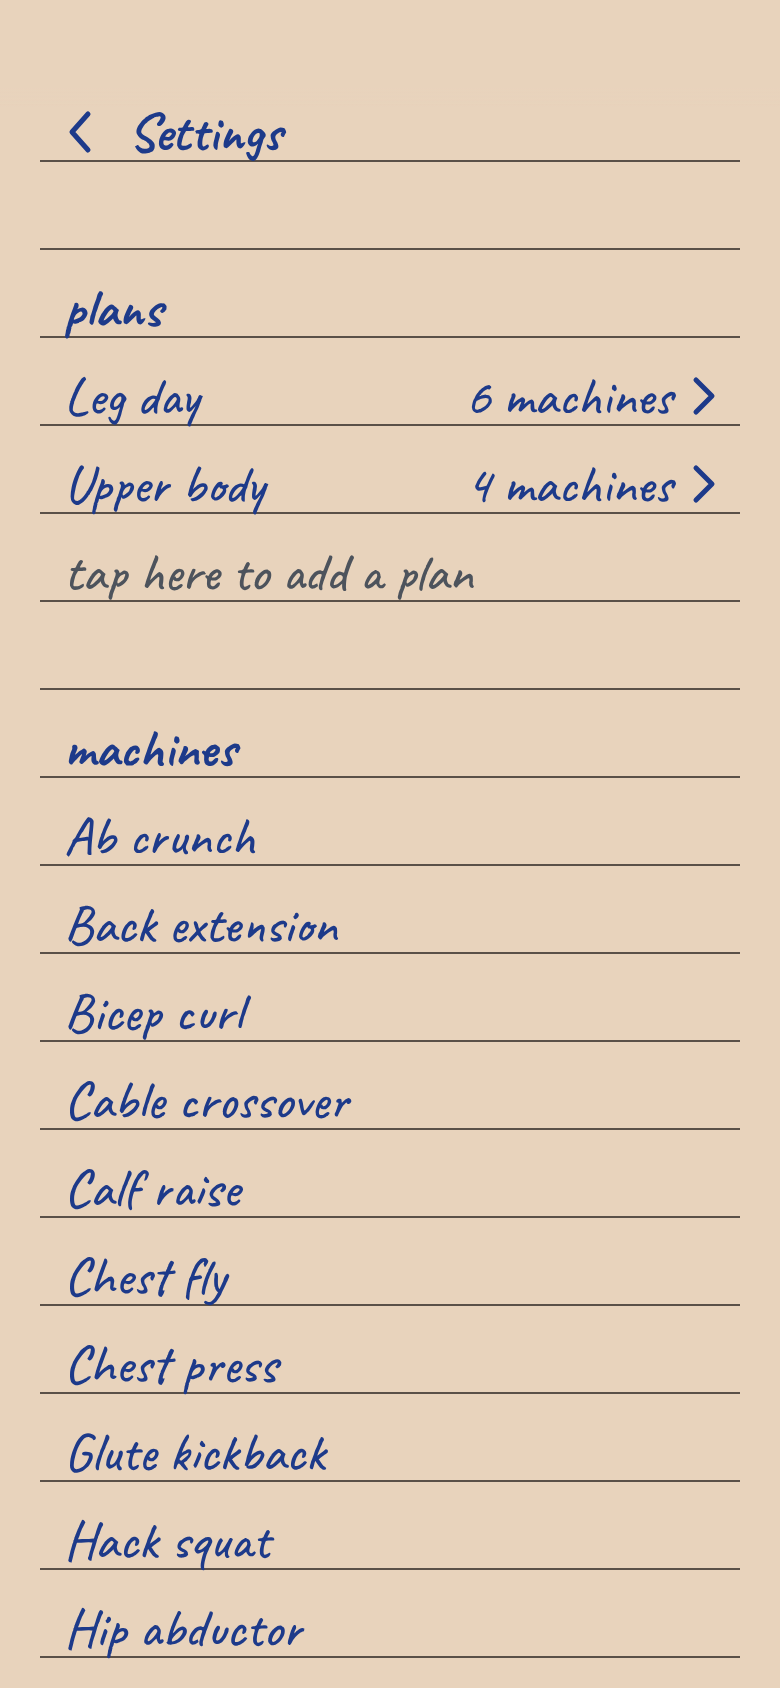
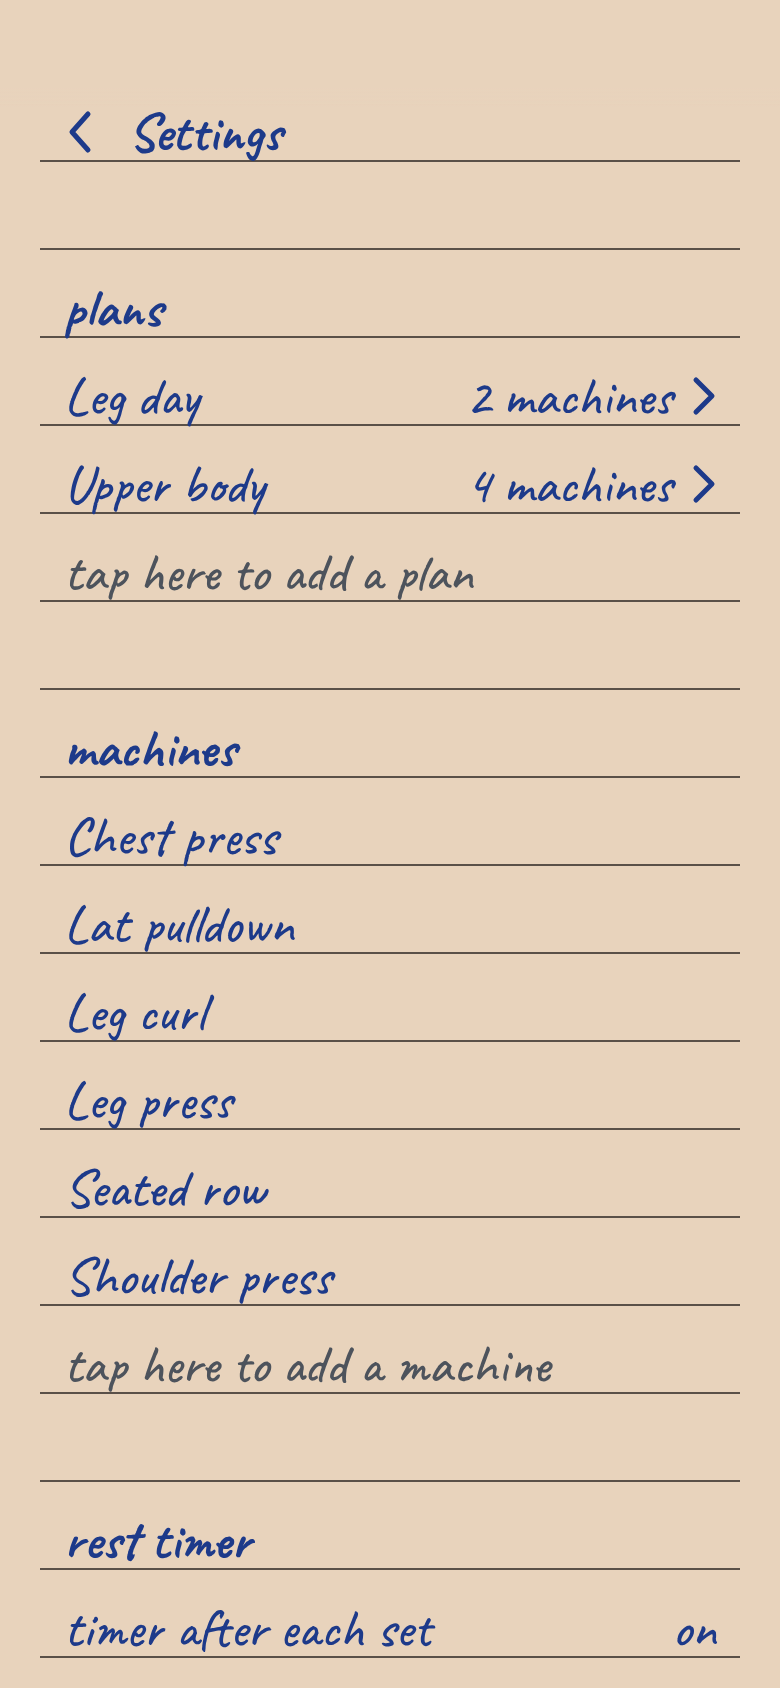
Back to six starter machines; keep the page still between sets
A new notebook starts with the six machines it had before.

In a plan's day the page jumped up and scrolled back after every set,
because the room under the page was reset while the panel was about to
open again. That room now stays while the panel comes straight back.

diff --git a/index.html b/index.html
@@ -1765,20 +1765,16 @@ button {
         .map((line) => (keepDates.has(line.id) ? { ...line, example: undefined } : line));
     }
 
-    /** The machines a new notebook starts with: what most gyms have. */
-    static starterMachines() {
-      const names = [
-        'Ab crunch', 'Back extension', 'Bicep curl', 'Cable crossover', 'Calf raise', 'Chest fly', 'Chest press',
-        'Glute kickback', 'Hack squat', 'Hip abductor', 'Hip adductor', 'Incline press', 'Lat pulldown', 'Lateral raise',
-        'Leg curl', 'Leg extension', 'Leg press', 'Pull-up assist', 'Rear delt fly', 'Seated row', 'Shoulder press',
-        'Smith machine', 'Torso rotation', 'Tricep pushdown',
-      ];
-      return names.map((name) => ({ id: 'm-' + name.toLowerCase().replace(/[^a-z0-9]+/g, '-'), name }));
-    }
-
-    /** The data a new notebook starts with: the starter machines, no plans and five example days. */
+    /** The data a new notebook starts with: six machines, no plans and five example days. */
     static exampleData() {
-      const machines = Notebook.starterMachines();
+      const machines = [
+        { id: 'm-leg-press', name: 'Leg press' },
+        { id: 'm-chest-press', name: 'Chest press' },
+        { id: 'm-lat-pulldown', name: 'Lat pulldown' },
+        { id: 'm-shoulder-press', name: 'Shoulder press' },
+        { id: 'm-seated-row', name: 'Seated row' },
+        { id: 'm-leg-curl', name: 'Leg curl' },
+      ];
       const byName = new Map(machines.map((m) => [m.name, m]));
       const sessions = [
         ['2026-11-07', 'Biking Basics New Zealand #11', [['Leg press', 75, 3, 12], ['Chest press', 32.5, 3, 10], ['Seated row', 37.5, 3, 12]]],
@@ -2696,7 +2692,7 @@ button {
             otherLabel: upNext ? `Next: ${upNext.name}` : 'Done',
             onOther: () => {
               this.shownOn = null;
-              this.page.done();
+              this.page.done({ keepRoom: !!upNext });
               if (upNext) this.page.openLineEditor(upNext);
             },
           }
@@ -2888,7 +2884,7 @@ button {
 
       // In a plan's day the panel comes straight back for the next set.
       const goOn = !!logged && (this.logging || !!this.planLine || Progress.plannedInDay(this.notebook.lines, logged.id).length > 0);
-      this.page.done({ scroll: !editing && !!next && !goOn });
+      this.page.done({ scroll: !editing && !!next && !goOn, keepRoom: goOn });
       if (goOn) this.page.openLineEditor(logged, { logging: true });
     }
   }
@@ -3008,7 +3004,7 @@ button {
       const plan = this.pickedPlan();
       const { planLines } = this.notebook.startDay(date, plan && plan.id);
       // With a plan the day is ready to log: straight on to its first machine.
-      this.page.done({ scroll: !planLines.length });
+      this.page.done({ scroll: !planLines.length, keepRoom: planLines.length > 0 });
       if (planLines.length) this.page.openLineEditor(planLines[0]);
     }
   }
@@ -3052,11 +3048,12 @@ button {
       this.listen();
     }
 
-    render() {
+    /** keepRoom: leave the room under the page as it is, because a panel opens again right away. */
+    render({ keepRoom = false } = {}) {
       const { marks } = Progress.analyzeLines(this.notebook.lines);
       this.linesEl.innerHTML = LineMarkup.page(this.notebook.lines, marks);
       this.showAddLines();
-      this.filler.style.height = '';
+      if (!keepRoom) this.filler.style.height = '';
       this.updateTodayButton();
     }
 
@@ -3082,10 +3079,10 @@ button {
       this.dateEditor.open(line);
     }
 
-    /** An editor calls this when its panel closes. */
-    done({ scroll } = {}) {
+    /** An editor calls this when its panel closes. keepRoom: the next panel opens at once, so the page must not jump. */
+    done({ scroll, keepRoom } = {}) {
       this.busy = false;
-      this.render();
+      this.render({ keepRoom });
       if (scroll) scrollToBottom(true);
     }
 

diff --git a/tests/notebook.test.js b/tests/notebook.test.js
@@ -192,12 +192,9 @@ test('exampleData: five days, every machine line points at a machine, every id i
   assert.equal(new Set(data.lines.map((l) => l.id)).size, data.lines.length);
 });
 
-test('exampleData: a long list of machines with ids of their own, and no plans', () => {
+test('exampleData: six machines and no plans', () => {
   const data = Notebook.exampleData();
-  assert.ok(data.machines.length >= 20);
-  assert.equal(new Set(data.machines.map((m) => m.id)).size, data.machines.length);
-  assert.equal(new Set(data.machines.map((m) => m.name.toLowerCase())).size, data.machines.length);
-  assert.ok(data.machines.some((m) => m.id === 'm-leg-press' && m.name === 'Leg press')); // the ids older notebooks use
+  assert.equal(data.machines.length, 6);
   assert.deepEqual(data.plans, []);
 });
 

diff --git a/design/README.md b/design/README.md
@@ -2,7 +2,7 @@
 
 Screenshots of the app, one per screen, in the order you meet them. Every screen is 390 × 844 (iPhone 13), taken at 2×.
 
-They are pictures of the real `index.html`, so they show what is built. Screens 07 to 10 and 13 to 18 were taken when a new notebook had six machines; it now starts with 24, so their machine lists are shorter than what you see today. The numbers and dates are examples: "today" is 23/11. Screens 15, 16 and 18 use a made-up year of training.
+They are pictures of the real `index.html`, so they show what is built. Screens 13 and 14 were taken before settings had its plans part, so that part is missing behind their panels. The numbers and dates are examples: "today" is 23/11. Screens 15, 16 and 18 use a made-up year of training.
 
 | Group | Screen | What it shows |
 | --- | --- | --- |
